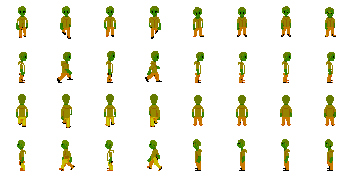
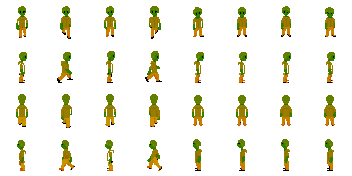
PixelLab test: clean heads (eyes, highlights, hair clip, crown), softer snapped shades

diff --git a/art/src/pixellab/README.md b/art/src/pixellab/README.md
@@ -52,3 +52,13 @@ their colour (they were read as trousers), the blonde body's pale face highlight
 the tall body's legs below the coat are trousers, the long-haired body's hair stops at the
 shoulders, and the ponytail body's cheeks follow the skin. `_despeckle` gives a lone stray
 pixel its neighbours' group.
+
+## Heads cleaned up (4 October, after the owner's notes)
+
+`_resolve_heads`: in the head rows, light one-off pixels (eye whites, highlights) join the
+skin or hair around them, dark strands inside hair join the hair, skin pixels inside hair
+join it, and clothing colours high on the head (a hair clip) join hair or skin; below the
+head, dark folds inside clothes take the clothes' colour. `_shade` softens each pixel's
+brightness against its group (CONTRAST) and snaps it to SHADES, so bright recolours don't
+streak. Rules added: pale top-of-head pixels are the blonde body's hair; the tall body's
+greys in the top rows are hair, and its coat takes lighter blue highlights.
